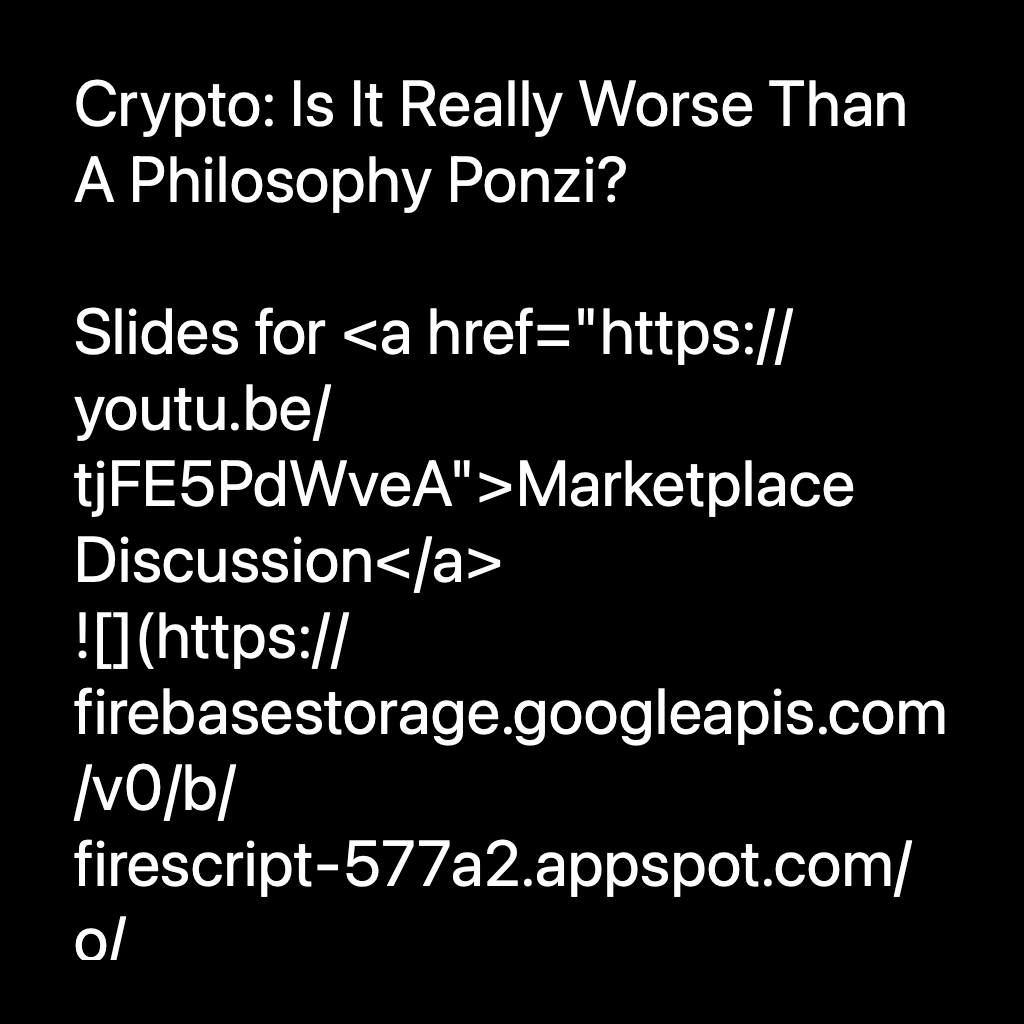
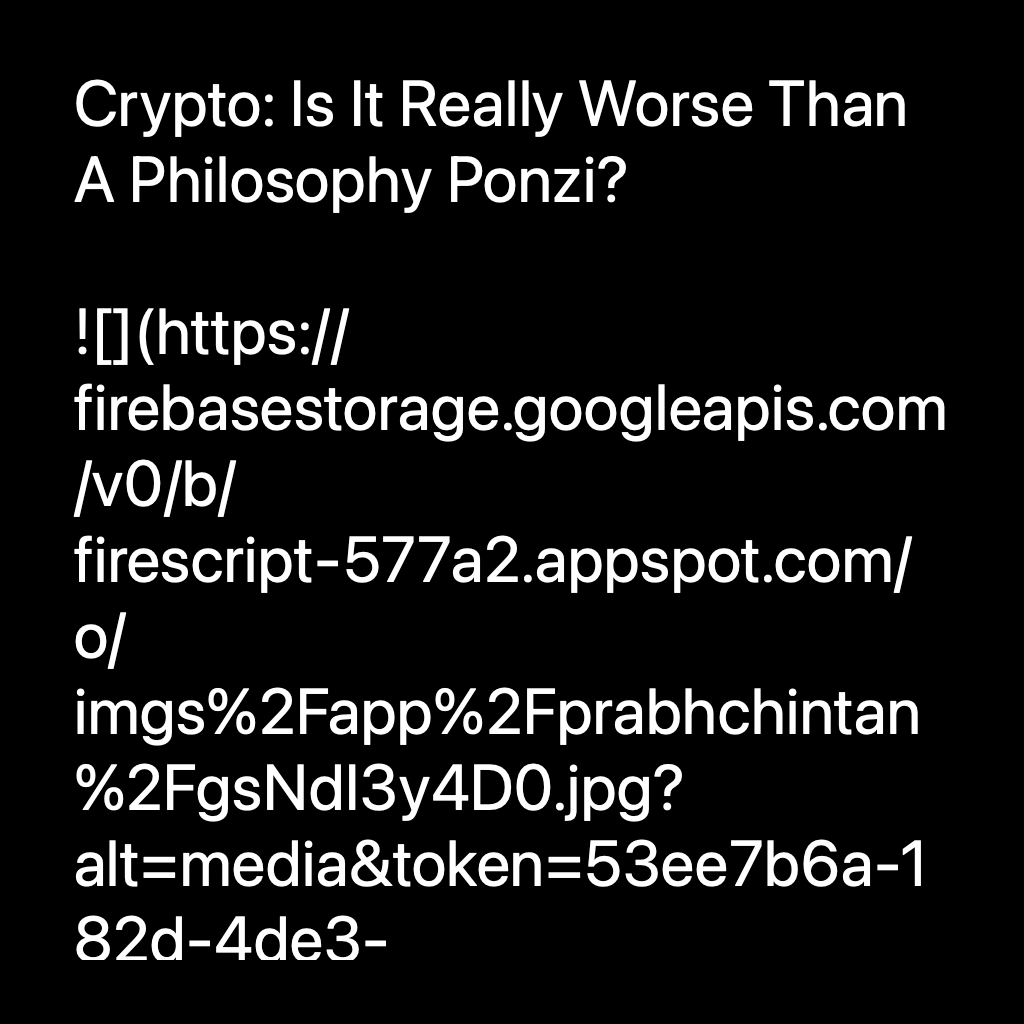
automated upload

Changed region(s): [[0.0625, 0.2812, 0.9375, 0.9375]]

diff --git a/E2B990EC-7BE7-4165-AA15-2F7B43B792C4/index.html b/E2B990EC-7BE7-4165-AA15-2F7B43B792C4/index.html
@@ -72,7 +72,7 @@
 <meta property="og:type" content="article" />
 <meta property="og:title" content="Crypto: Is It Really Worse Than A Philosophy Ponzi?" />
 <meta property="og:site_name" content="&#xA2A;&#xA4D;&#xA30;&#xA2D;&#xA1A;&#xA3F;&#xA70;&#xA24;&#xA28;&#xA30;&#xA70;&#xA27;&#xA3E;&#xA35;&#xA3E;" />
-<meta property="og:description" content="Slides for &#x3C;a href=&#x22;&#x22;&#x3E;Marketplace Discussion" />
+<meta property="og:description" content="" />
 <meta property="article:published_time" content="2022-11-29T11:30:11-06:00" />
 
   <meta property="og:image" content="https://retroflex.xyz/decafquest/_cover.png" />
@@ -81,7 +81,7 @@
 <meta name="twitter:card" content="summary" />
 <meta name="twitter:site" content="&#xA2A;&#xA4D;&#xA30;&#xA2D;&#xA1A;&#xA3F;&#xA70;&#xA24;&#xA28;&#xA30;&#xA70;&#xA27;&#xA3E;&#xA35;&#xA3E;" />
 <meta name="twitter:title" content="Crypto: Is It Really Worse Than A Philosophy Ponzi?" />
-<meta name="twitter:description" content="Slides for &#x3C;a href=&#x22;&#x22;&#x3E;Marketplace Discussion" />
+<meta name="twitter:description" content="" />
 
   <meta name="twitter:image" content="https://retroflex.xyz/decafquest/_cover.png" />
 
@@ -163,8 +163,7 @@
 <div class="content">
   
   
-  <p>Slides for &lt;a href=&quot;<iframe width="100%" style="aspect-ratio: 16/9" src="https://www.youtube.com/embed/tjFE5PdWveA" title="YouTube Video" frameborder="0" allow="accelerometer; autoplay; clipboard-write; encrypted-media; gyroscope; picture-in-picture" allowfullscreen></iframe>&quot;&gt;Marketplace Discussion</a><br />
-<img src="https://firebasestorage.googleapis.com/v0/b/firescript-577a2.appspot.com/o/imgs%2Fapp%2Fprabhchintan%2FgsNdI3y4D0.jpg?alt=media&amp;token=53ee7b6a-182d-4de3-b179-0791dbab3760" alt="" /><br />
+  <p><img src="https://firebasestorage.googleapis.com/v0/b/firescript-577a2.appspot.com/o/imgs%2Fapp%2Fprabhchintan%2FgsNdI3y4D0.jpg?alt=media&amp;token=53ee7b6a-182d-4de3-b179-0791dbab3760" alt="" /><br />
 <img src="https://firebasestorage.googleapis.com/v0/b/firescript-577a2.appspot.com/o/imgs%2Fapp%2Fprabhchintan%2F-N0_KtkiZS.jpeg?alt=media&amp;token=9128f784-c4b9-4f0c-a435-ba986c230848" alt="" /><br />
 <img src="https://firebasestorage.googleapis.com/v0/b/firescript-577a2.appspot.com/o/imgs%2Fapp%2Fprabhchintan%2FM9nQgw2RGw.jpeg?alt=media&amp;token=1423b1d4-1214-411d-a6ad-d408b6fa5544" alt="" /><br />
 <img src="https://firebasestorage.googleapis.com/v0/b/firescript-577a2.appspot.com/o/imgs%2Fapp%2Fprabhchintan%2F7pON1kjJkE.jpeg?alt=media&amp;token=c2f5c921-27e9-4a33-ba91-5cf41a8da383" alt="" /><br />

diff --git a/decafquest/index.html b/decafquest/index.html
@@ -72,7 +72,7 @@
 <meta property="og:type" content="article" />
 <meta property="og:title" content="Crypto: Is It Really Worse Than A Philosophy Ponzi?" />
 <meta property="og:site_name" content="&#xA2A;&#xA4D;&#xA30;&#xA2D;&#xA1A;&#xA3F;&#xA70;&#xA24;&#xA28;&#xA30;&#xA70;&#xA27;&#xA3E;&#xA35;&#xA3E;" />
-<meta property="og:description" content="Slides for &#x3C;a href=&#x22;&#x22;&#x3E;Marketplace Discussion" />
+<meta property="og:description" content="" />
 <meta property="article:published_time" content="2022-11-29T11:30:11-06:00" />
 
   <meta property="og:image" content="https://retroflex.xyz/decafquest/_cover.png" />
@@ -81,7 +81,7 @@
 <meta name="twitter:card" content="summary" />
 <meta name="twitter:site" content="&#xA2A;&#xA4D;&#xA30;&#xA2D;&#xA1A;&#xA3F;&#xA70;&#xA24;&#xA28;&#xA30;&#xA70;&#xA27;&#xA3E;&#xA35;&#xA3E;" />
 <meta name="twitter:title" content="Crypto: Is It Really Worse Than A Philosophy Ponzi?" />
-<meta name="twitter:description" content="Slides for &#x3C;a href=&#x22;&#x22;&#x3E;Marketplace Discussion" />
+<meta name="twitter:description" content="" />
 
   <meta name="twitter:image" content="https://retroflex.xyz/decafquest/_cover.png" />
 
@@ -163,8 +163,7 @@
 <div class="content">
   
   
-  <p>Slides for &lt;a href=&quot;<iframe width="100%" style="aspect-ratio: 16/9" src="https://www.youtube.com/embed/tjFE5PdWveA" title="YouTube Video" frameborder="0" allow="accelerometer; autoplay; clipboard-write; encrypted-media; gyroscope; picture-in-picture" allowfullscreen></iframe>&quot;&gt;Marketplace Discussion</a><br />
-<img src="https://firebasestorage.googleapis.com/v0/b/firescript-577a2.appspot.com/o/imgs%2Fapp%2Fprabhchintan%2FgsNdI3y4D0.jpg?alt=media&amp;token=53ee7b6a-182d-4de3-b179-0791dbab3760" alt="" /><br />
+  <p><img src="https://firebasestorage.googleapis.com/v0/b/firescript-577a2.appspot.com/o/imgs%2Fapp%2Fprabhchintan%2FgsNdI3y4D0.jpg?alt=media&amp;token=53ee7b6a-182d-4de3-b179-0791dbab3760" alt="" /><br />
 <img src="https://firebasestorage.googleapis.com/v0/b/firescript-577a2.appspot.com/o/imgs%2Fapp%2Fprabhchintan%2F-N0_KtkiZS.jpeg?alt=media&amp;token=9128f784-c4b9-4f0c-a435-ba986c230848" alt="" /><br />
 <img src="https://firebasestorage.googleapis.com/v0/b/firescript-577a2.appspot.com/o/imgs%2Fapp%2Fprabhchintan%2FM9nQgw2RGw.jpeg?alt=media&amp;token=1423b1d4-1214-411d-a6ad-d408b6fa5544" alt="" /><br />
 <img src="https://firebasestorage.googleapis.com/v0/b/firescript-577a2.appspot.com/o/imgs%2Fapp%2Fprabhchintan%2F7pON1kjJkE.jpeg?alt=media&amp;token=c2f5c921-27e9-4a33-ba91-5cf41a8da383" alt="" /><br />
